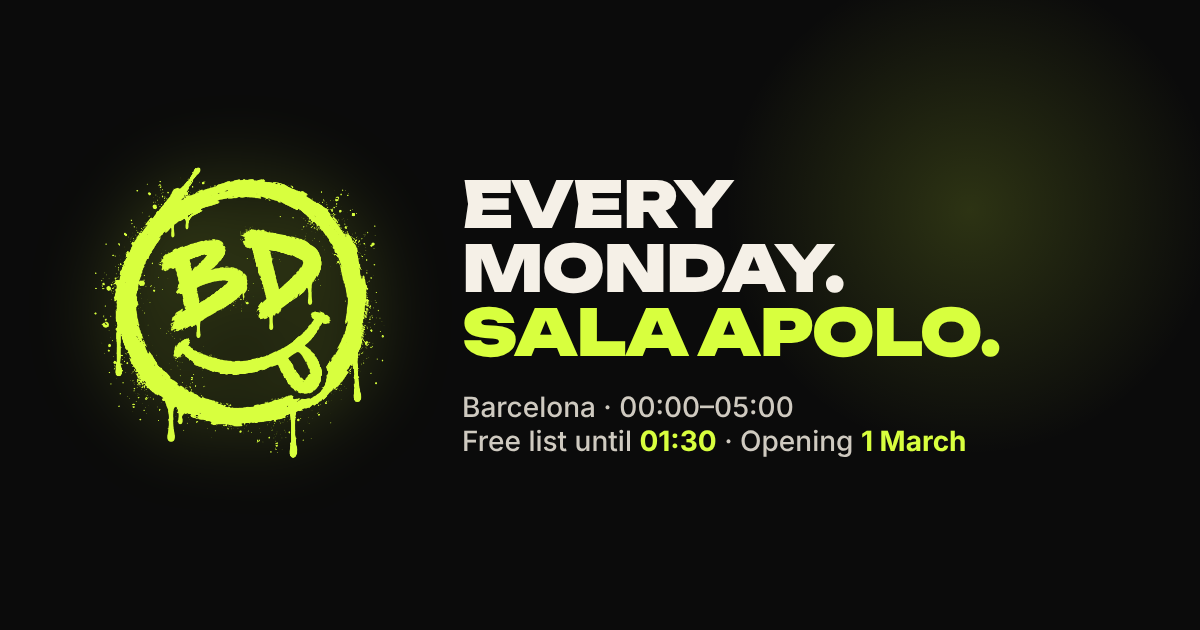
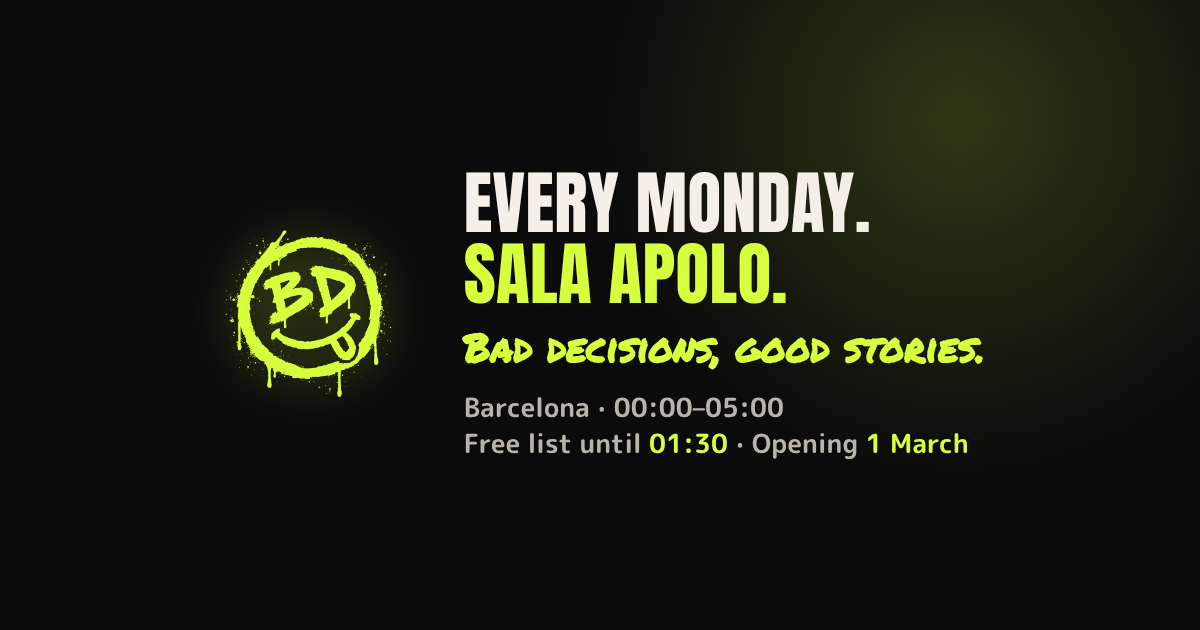
On-brand OG image, event images 1:1/4:3/16:9, richer meta and JSON-LD
Claude-Session: https://claude.ai/code/session_01QaytdjiEQDD2dJYdDk6tGW

Changed region(s): [[0.37, 0.2714, 0.8325, 0.6032], [0.0925, 0.2714, 0.3392, 0.7238], [0.37, 0.6333, 0.8017, 0.7238]]

diff --git a/public/es/index.html b/public/es/index.html
@@ -19,11 +19,13 @@
 <meta property="og:type" content="website">
 <meta property="og:site_name" content="Bad Decisions">
 <meta property="og:locale" content="es_ES">
+<meta property="og:locale:alternate" content="en_GB">
 <meta property="og:url" content="https://baddecisionsbcn.com/es/">
 <meta property="og:title" content="Bad Decisions · Fiesta de los lunes en Barcelona · Muy pronto">
 <meta property="og:description" content="Bad Decisions: una nueva fiesta de los lunes en Barcelona. Throwbacks, malas decisiones y buenas historias. Muy pronto. Síguenos en Instagram.">
 <meta property="og:image" content="https://baddecisionsbcn.com/assets/img/og-image.png">
 <meta property="og:image:width" content="1200"><meta property="og:image:height" content="630">
+<meta property="og:image:alt" content="Bad Decisions · Every Monday at Sala Apolo, Barcelona">
 <meta name="twitter:card" content="summary_large_image">
 <link rel="preload" href="../assets/fonts/anton-400.woff2" as="font" type="font/woff2" crossorigin>
 <link rel="preload" href="../assets/fonts/mplus-rounded-700.woff2" as="font" type="font/woff2" crossorigin>
@@ -36,7 +38,10 @@
    "@type": "Organization",
    "@id": "https://baddecisionsbcn.com/#org",
    "name": "Bad Decisions",
+   "alternateName": "Bad Decisions BCN",
    "url": "https://baddecisionsbcn.com/",
+   "image": "https://baddecisionsbcn.com/assets/img/event-1x1.jpg",
+   "description": "Monday night party in Barcelona, every Monday at Sala Apolo.",
    "logo": "https://baddecisionsbcn.com/assets/img/logo-acid.png",
    "sameAs": [
     "https://www.instagram.com/baddecisionsbcn/"
@@ -57,6 +62,10 @@
    "@type": "WebSite",
    "@id": "https://baddecisionsbcn.com/#web",
    "name": "Bad Decisions",
+   "alternateName": [
+    "Bad Decisions BCN",
+    "Bad Decisions Barcelona"
+   ],
    "url": "https://baddecisionsbcn.com/",
    "inLanguage": [
     "en",

diff --git a/public/index.html b/public/index.html
@@ -19,11 +19,13 @@
 <meta property="og:type" content="website">
 <meta property="og:site_name" content="Bad Decisions">
 <meta property="og:locale" content="en_GB">
+<meta property="og:locale:alternate" content="es_ES">
 <meta property="og:url" content="https://baddecisionsbcn.com/">
 <meta property="og:title" content="Bad Decisions · Monday nights in Barcelona · Coming soon">
 <meta property="og:description" content="Bad Decisions: a new Monday night party in Barcelona. Throwbacks, bad decisions and good stories. Coming soon. Follow us on Instagram.">
 <meta property="og:image" content="https://baddecisionsbcn.com/assets/img/og-image.png">
 <meta property="og:image:width" content="1200"><meta property="og:image:height" content="630">
+<meta property="og:image:alt" content="Bad Decisions · Every Monday at Sala Apolo, Barcelona">
 <meta name="twitter:card" content="summary_large_image">
 <link rel="preload" href="assets/fonts/anton-400.woff2" as="font" type="font/woff2" crossorigin>
 <link rel="preload" href="assets/fonts/mplus-rounded-700.woff2" as="font" type="font/woff2" crossorigin>
@@ -36,7 +38,10 @@
    "@type": "Organization",
    "@id": "https://baddecisionsbcn.com/#org",
    "name": "Bad Decisions",
+   "alternateName": "Bad Decisions BCN",
    "url": "https://baddecisionsbcn.com/",
+   "image": "https://baddecisionsbcn.com/assets/img/event-1x1.jpg",
+   "description": "Monday night party in Barcelona, every Monday at Sala Apolo.",
    "logo": "https://baddecisionsbcn.com/assets/img/logo-acid.png",
    "sameAs": [
     "https://www.instagram.com/baddecisionsbcn/"
@@ -57,6 +62,10 @@
    "@type": "WebSite",
    "@id": "https://baddecisionsbcn.com/#web",
    "name": "Bad Decisions",
+   "alternateName": [
+    "Bad Decisions BCN",
+    "Bad Decisions Barcelona"
+   ],
    "url": "https://baddecisionsbcn.com/",
    "inLanguage": [
     "en",

diff --git a/src/og.html b/src/og.html
@@ -1,0 +1,32 @@
+<!doctype html>
+<!-- Template for the social / event images. Rendered by src/make_images.js at several sizes. -->
+<html><head><meta charset="utf-8">
+<style>
+@font-face{font-family:Anton;src:url(../public/assets/fonts/anton-400.woff2)}
+@font-face{font-family:Rounded;src:url(../public/assets/fonts/mplus-rounded-700.woff2);font-weight:700}
+@font-face{font-family:Brush;src:url(../public/assets/fonts/permanent-marker-400.woff2)}
+*{margin:0;box-sizing:border-box}
+html,body{width:100%;height:100%}
+body{background:#0B0B0B;color:#F5F0E7;font-family:Rounded;font-weight:700;display:flex;align-items:center;justify-content:center;overflow:hidden;position:relative}
+body:before{content:"";position:absolute;width:70vmax;height:70vmax;right:-15vmax;top:-25vmax;background:radial-gradient(circle,#d8ff3e2e,transparent 60%)}
+.box{display:flex;align-items:center;gap:5vw;padding:6vw;position:relative}
+.tall .box{flex-direction:column;text-align:center;gap:4vh}
+img{width:30vmin;filter:drop-shadow(0 0 4vmin #d8ff3e55)}
+.tall img{width:42vmin}
+h1{font-family:Anton;font-weight:400;text-transform:uppercase;line-height:1.02;font-size:11vmin;letter-spacing:.005em}
+h1 span{color:#D8FF3E}
+.brush{font-family:Brush;color:#D8FF3E;font-size:6.2vmin;margin-top:1.5vmin;display:block}
+p{color:#b9b4ab;font-size:4.2vmin;margin-top:2.4vmin;line-height:1.35}
+p b{color:#D8FF3E}
+</style></head>
+<body>
+<div class="box">
+  <img src="../public/assets/img/smile-acid.png" alt="">
+  <div>
+    <h1>Every Monday.<br><span>Sala Apolo.</span></h1>
+    <span class="brush">Bad decisions, good stories.</span>
+    <p>Barcelona · 00:00–05:00<br>Free list until <b>01:30</b> · Opening <b>1 March</b></p>
+  </div>
+</div>
+<script>if (innerHeight / innerWidth > 0.7) document.body.classList.add('tall');</script>
+</body></html>

diff --git a/src/make_images.js b/src/make_images.js
@@ -1,0 +1,19 @@
+// Renders src/og.html into the social (OG) image and the event images Google recommends (16:9, 4:3, 1:1).
+// Run: node src/make_images.js   (needs Playwright)
+const { chromium } = require('playwright');
+const path = require('path');
+const out = path.join(__dirname, '..', 'public', 'assets', 'img');
+const sizes = [['og-image.png', 1200, 630], ['event-16x9.jpg', 1200, 675], ['event-4x3.jpg', 1200, 900], ['event-1x1.jpg', 1200, 1200]];
+(async () => {
+  const b = await chromium.launch();
+  for (const [name, w, h] of sizes) {
+    const p = await b.newPage({ viewport: { width: w, height: h } });
+    await p.goto('file://' + path.join(__dirname, 'og.html'));
+    await p.evaluate(() => document.fonts.ready);
+    await p.waitForTimeout(300);
+    await p.screenshot({ path: path.join(out, name), type: name.endsWith('.jpg') ? 'jpeg' : 'png', quality: name.endsWith('.jpg') ? 85 : undefined });
+    await p.close();
+    console.log(name);
+  }
+  await b.close();
+})();

diff --git a/build.py b/build.py
@@ -310,10 +310,11 @@ def url(page, lang):
 
 def jsonld(page, lang, soon=False):
     c = C[lang]
-    org = {"@type": "Organization", "@id": SITE + "/#org", "name": "Bad Decisions", "url": SITE + "/",
+    org = {"@type": "Organization", "@id": SITE + "/#org", "name": "Bad Decisions", "alternateName": "Bad Decisions BCN", "url": SITE + "/",
+           "image": SITE + "/assets/img/event-1x1.jpg", "description": "Monday night party in Barcelona, every Monday at Sala Apolo.",
            "logo": SITE + "/assets/img/logo-acid.png", "sameAs": [INSTAGRAM], "slogan": "Bad decisions, good stories.", "email": EMAIL,
            "contactPoint": {"@type": "ContactPoint", "contactType": "customer support", "email": EMAIL, "availableLanguage": ["en", "es"]}}
-    web = {"@type": "WebSite", "@id": SITE + "/#web", "name": "Bad Decisions", "url": SITE + "/", "inLanguage": ["en", "es"], "publisher": {"@id": SITE + "/#org"}}
+    web = {"@type": "WebSite", "@id": SITE + "/#web", "name": "Bad Decisions", "alternateName": ["Bad Decisions BCN", "Bad Decisions Barcelona"], "url": SITE + "/", "inLanguage": ["en", "es"], "publisher": {"@id": SITE + "/#org"}}
     place = {"@type": "Place", "name": VENUE["name"], "address": {"@type": "PostalAddress", "streetAddress": VENUE["street"],
              "addressLocality": VENUE["city"], "postalCode": VENUE["postal"], "addressCountry": "ES"}}
     graph = [org, web]
@@ -330,7 +331,7 @@ def jsonld(page, lang, soon=False):
             graph.append({"@type": "MusicEvent", "name": "Bad Decisions · " + ("The Opening" if e["special"] else "Bad Monday"),
                           "description": desc, "startDate": f"{n.isoformat()}T00:00:00{z}", "endDate": f"{n.isoformat()}T05:00:00{z}",
                           "eventStatus": "https://schema.org/EventScheduled", "eventAttendanceMode": "https://schema.org/OfflineEventAttendanceMode",
-                          "location": place, "image": [SITE + "/assets/img/og-image.png"], "typicalAgeRange": "18-",
+                          "location": place, "image": [SITE + "/assets/img/event-1x1.jpg", SITE + "/assets/img/event-4x3.jpg", SITE + "/assets/img/event-16x9.jpg"], "typicalAgeRange": "18-",
                           "organizer": {"@id": SITE + "/#org"}, "performer": {"@type": "PerformingGroup", "name": "Bad Decisions resident DJ"},
                           "offers": [{"@type": "Offer", "name": c["prices"][0][0], "price": "0", "priceCurrency": "EUR", "availability": "https://schema.org/InStock", "url": tickets_url, "validFrom": "2026-12-01T00:00:00+01:00"},
                                      {"@type": "Offer", "name": c["prices"][1][0], "price": str(PRICE_ADVANCE), "priceCurrency": "EUR", "availability": "https://schema.org/InStock", "url": tickets_url, "validFrom": "2026-12-01T00:00:00+01:00"}]})
@@ -373,11 +374,13 @@ def head(page, lang, path, soon=False):
 <meta property="og:type" content="website">
 <meta property="og:site_name" content="Bad Decisions">
 <meta property="og:locale" content="{'en_GB' if lang == 'en' else 'es_ES'}">
+<meta property="og:locale:alternate" content="{'es_ES' if lang == 'en' else 'en_GB'}">
 <meta property="og:url" content="{url(page, lang)}">
 <meta property="og:title" content="{E(title)}">
 <meta property="og:description" content="{E(desc)}">
 <meta property="og:image" content="{SITE}/assets/img/og-image.png">
 <meta property="og:image:width" content="1200"><meta property="og:image:height" content="630">
+<meta property="og:image:alt" content="Bad Decisions · Every Monday at Sala Apolo, Barcelona">
 <meta name="twitter:card" content="summary_large_image">
 <link rel="preload" href="{p}assets/fonts/anton-400.woff2" as="font" type="font/woff2" crossorigin>
 <link rel="preload" href="{p}assets/fonts/mplus-rounded-700.woff2" as="font" type="font/woff2" crossorigin>
